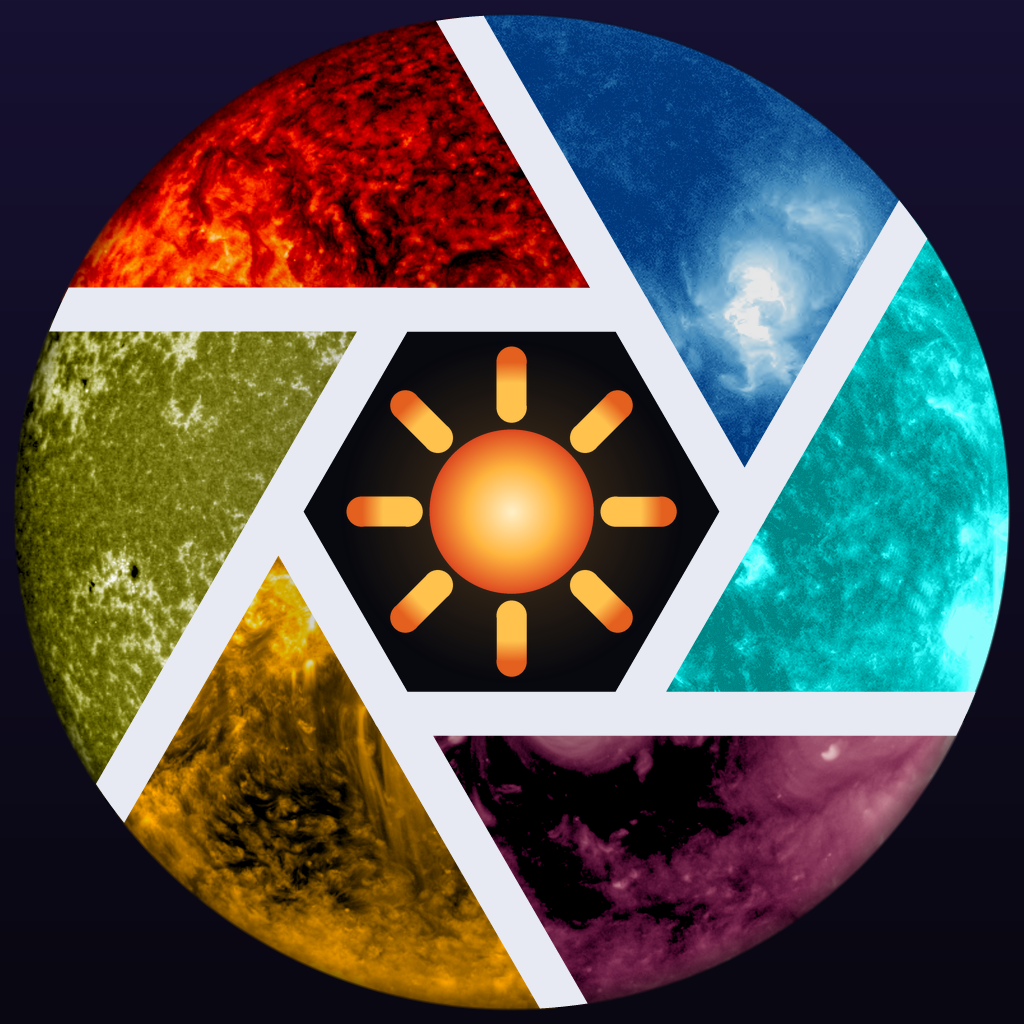
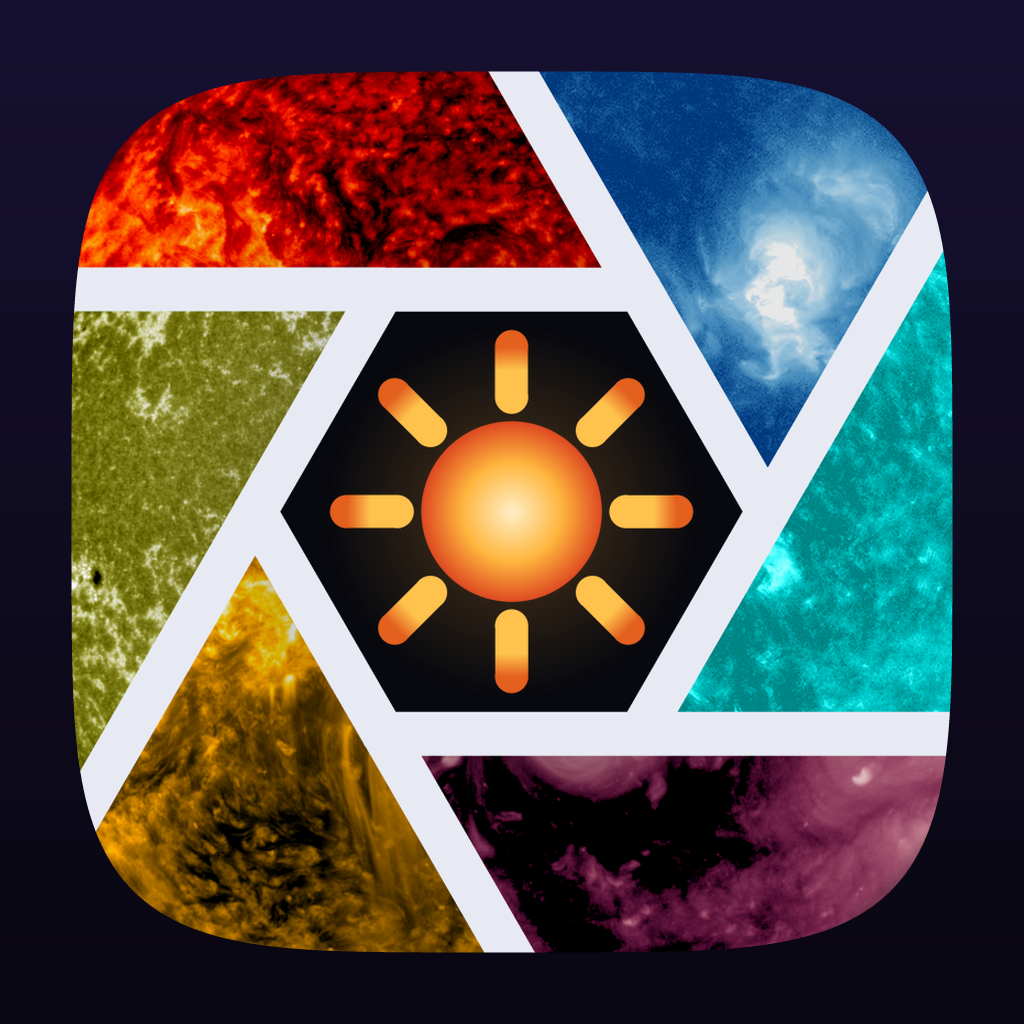
Set the iris in an inset squircle window on the family ground
Gilly picked row 1 of the family photo on 2026-10-28: the drawn Sun in the
hexagon, the iris in a squircle window inset on the violet-black ground.
make_iris_art.py now draws the iris as before (iris()), enlarges it 1.10x about
its centre so the orb's radius (547) passes the window's corner (536), and
clips it to a squircle 0.86 of the canvas wide (n 4.6) on the ground. LINE is
44/1.10 so the dividers end 44 px wide. The output matches the approved
preview exactly (max pixel difference 0, computed against
heliad/icon/v11/studio_current.png).

make_app_icon.py: the .icns body cropped the middle 824 px of the art, which
would cut the window band off. It now shrinks the whole art into the body,
as Heliogram's .icns does. The asset catalog now gets the full art as an
opaque square; before, it got the masked art's pixels, black outside the
824 px body.

The .icns, .ico, asset catalog and PNGs are not rebuilt here (iconutil is
Mac only). UNCHECKED: how macOS 26 places its mask on the catalog's
full-bleed square (whole art or middle 824 px); to be checked on the Mac
from NSWorkspace's rendered icon. UNCHECKED: ant check-all (no ant here);
guards.py diff: 0 failed.

Claude-Session: https://claude.ai/code/session_01BAZto7GS2MUx5a6beTTSaX

diff --git a/release/make_iris_art.py b/release/make_iris_art.py
@@ -14,7 +14,10 @@ the family version (2026-10-23, Gilly's pick beside Peek, Heliad and Heliogram):
   * the ground outside the orb is Heliogram's violet-black, and the hexagon holds Heliogram's drawn
     Sun (2026-10-26), so the icon reads at 16 px and matches the family's sun-in-a-white-outline;
   * the dividers are Heliogram's chrome white (#E7EAF3), 44 px at 1024 (the stroke of the Heliogram
-    and HelioFITS outlines; 22 px until 2026-10-26), with round joints.
+    and HelioFITS outlines; 22 px until 2026-10-26), with round joints;
+  * the iris sits in an inset squircle window (2026-10-28, Gilly's pick of four in a family photo):
+    the whole iris is enlarged by ZOOM about its centre, so the orb's edge falls outside the
+    window's corners, and the violet-black ground shows as a band around the window.
 
 The red, olive, gold and purple leaves are the original art, untouched.
 
@@ -42,7 +45,9 @@ ORIGINAL = os.path.join(HERE, "iris_plain_1024.png")
 OUT = os.path.join(HERE, "iris_leaf_plain_1024.png")
 
 CHROME = (0xE7, 0xEA, 0xF3)
-LINE = 44                                 # divider width at 1024: Heliogram's and HelioFITS's outline stroke
+ZOOM = 1.10                               # the iris enlarged about its centre: the orb's radius becomes 547,
+WINDOW = 0.86                             # past the corner of this squircle window (536 px out)
+LINE = 44 / ZOOM                          # divider width, 44 px after ZOOM: Heliogram's and HelioFITS's outline stroke
 C, APO = 511.5, 202                       # hexagon centre and apothem, to the middle of the old dividers
 R = APO / math.cos(math.radians(30))
 V = {"L": (C - R, C), "R": (C + R, C),
@@ -111,6 +116,35 @@ def leaves():
 
 
 def art():
+    """The iris, enlarged by ZOOM about its centre, in a squircle window on the family ground."""
+    big = iris().resize((round(1024 * ZOOM),) * 2, Image.LANCZOS)
+    o = (big.width - 1024) // 2
+    a = np.array(big.crop((o, o, o + 1024, o + 1024))).astype(np.float32)
+    window = squircle(WINDOW)[..., None]
+    out = a * window + ground() * (1 - window)
+    return Image.fromarray(np.clip(out, 0, 255).astype(np.uint8))
+
+
+def ground():
+    """Heliogram's ground, #171132 -> #090711, top to bottom."""
+    t = np.linspace(0, 1, 1024)[:, None, None]
+    return np.broadcast_to(np.array(GROUND_TOP) * (1 - t) + np.array(GROUND_BOT) * t, (1024, 1024, 3))
+
+
+def squircle(frac, n=4.6, ss=4):
+    """Area coverage of a squircle frac of the canvas wide, with macOS's exponent."""
+    c, h = 512 * ss, 512 * ss * frac
+    pts = []
+    for i in range(4800):
+        t = 2 * math.pi * i / 4800
+        ct, st = math.cos(t), math.sin(t)
+        pts.append((c + h * math.copysign(abs(ct) ** (2 / n), ct), c + h * math.copysign(abs(st) ** (2 / n), st)))
+    m = Image.new("L", (1024 * ss, 1024 * ss), 0)
+    ImageDraw.Draw(m).polygon(pts, fill=255)
+    return np.array(m.resize((1024, 1024), Image.BOX)).astype(np.float32) / 255
+
+
+def iris():
     orig = np.array(Image.open(ORIGINAL).convert("RGB")).astype(np.float32)
     blue, cyan, A, B = leaves()
     yy, xx = np.mgrid[0:1024, 0:1024]
@@ -122,11 +156,9 @@ def art():
         table = colour_table(frame(ch, *fit_at)[m], orig[m])
         new = look_up(table, frame(ch, *RENDER)) * inside
         out = out * (1 - region[..., None]) + new * region[..., None]
-    # the family ground (Heliogram's #171132 -> #090711, top to bottom) outside the orb
-    t = np.linspace(0, 1, 1024)[:, None, None]
-    ground = np.array(GROUND_TOP) * (1 - t) + np.array(GROUND_BOT) * t
+    # the family ground outside the orb
     outside = np.clip((np.hypot(xx - C, yy - C) - (ORB - 1)) / 3, 0, 1)[..., None]
-    out = out * (1 - outside) + ground * outside
+    out = out * (1 - outside) + ground() * outside
     img = Image.fromarray(np.clip(out, 0, 255).astype(np.uint8))
     return sun(dividers(img, A, B))
 
@@ -181,7 +213,7 @@ def dividers(img, A, B, ss=4):
     big = Image.new("L", (1024 * ss, 1024 * ss), 0)
     d = ImageDraw.Draw(big)
     for p, q in segs:
-        d.line([(p[0] * ss, p[1] * ss), (q[0] * ss, q[1] * ss)], fill=255, width=LINE * ss)
+        d.line([(p[0] * ss, p[1] * ss), (q[0] * ss, q[1] * ss)], fill=255, width=round(LINE * ss))
     for v in V.values():                                  # round joints
         d.ellipse([(v[0] - LINE / 2) * ss, (v[1] - LINE / 2) * ss, (v[0] + LINE / 2) * ss, (v[1] + LINE / 2) * ss], fill=255)
     clip = Image.new("L", big.size, 0)

diff --git a/release/make_app_icon.py b/release/make_app_icon.py
@@ -45,8 +45,15 @@ def squircle(size=S, frac=BODY, n=N, ss=4):
 
 
 def masked(img):
-    """The squircle the .icns needs; the asset catalog gets unmasked() instead."""
-    img = img.convert("RGBA")
+    """The squircle the .icns needs; the asset catalog gets unmasked() instead.
+
+    The whole art is shrunk into the 824 px body, as Heliogram's .icns is and as macOS 26 draws the
+    catalog's full-bleed square, so both show the squircle window and its ground band (2026-10-28).
+    Until then the body cropped the art's middle 824 px."""
+    body = round(S * BODY)
+    small = img.convert("RGB").resize((body, body), Image.LANCZOS)
+    img = Image.new("RGBA", (S, S), (0, 0, 0, 0))
+    img.paste(small, ((S - body) // 2,) * 2)
     img.putalpha(squircle())
     px = np.array(img)
     px[px[..., 3] == 0, :3] = 0    # no colour under full transparency
@@ -110,9 +117,10 @@ def small_first(px, img=None):
 
 
 def unmasked(img):
-    """The art with the squircle taken off, filling its whole square canvas.
+    """The art as an opaque square filling its whole canvas, never the masked art (since
+    2026-10-28 the full art itself: before, the masked art's opaque pixels, black outside the body).
 
-    The catalog gets this rather than the masked art, and macOS applies its own shape. Handing it
+    The catalog gets this, and macOS applies its own shape. Handing it
     art that is already a squircle makes it inset that inside its own, which is the grey plate at
     1024 (the size Finder asks for at its largest icon view on a 2x display). The .icns keeps the
     masked art: nothing shapes that one."""
@@ -136,7 +144,7 @@ def main():
     images = []
     for size, scale, px in APPICONSET:
         fn = f"icon_{size}_{scale}.png"
-        small_first(px, unmasked(BY_SIZE[px])).save(os.path.join(aset, fn))
+        small_first(px, unmasked(PLAIN)).save(os.path.join(aset, fn))
         images.append({"idiom": "mac", "size": size, "scale": scale, "filename": fn})
     with open(os.path.join(aset, "Contents.json"), "w") as f:
         json.dump({"images": images, "info": {"version": 1, "author": "make_app_icon.py"}}, f, indent=2)

diff --git a/changelog.md b/changelog.md
@@ -111,6 +111,7 @@
 ### App icon
 - The iris icon joins the family look of HelioFITS, Heliad and Heliogram: its dividers are white instead of black, and the blue AIA 335 leaf is a full leaf running from the hexagon's right corner to the Sun's edge, so the red 304 leaf no longer spans the whole top. The new blue leaf and the cyan AIA 131 leaf are drawn from the real AIA frames of the same 2024-05-14 X8.7 flare the other leaves came from, by release/make_iris_art.py
 - The iris icon's white dividers are twice as wide, 44 px at 1024, the same stroke as the HelioFITS and Heliogram outlines. The ground around the orb is the family's violet-black, and the hexagon holds Heliogram's drawn Sun in place of the HFS letters, so one artwork reads at every size from 16 px up
+- The iris sits in a squircle window inset on that ground, enlarged so the orb's edge falls outside the window's corners, and the .icns now shows the whole art shrunk into the icon body, as the asset catalog does, instead of cropping its middle
 
 ### Smaller fixes
 - The Timeline Layers section no longer shows as empty stripes. When the sidebar gave it a pixel less height than it asked for, its New Layer row collapsed to nothing and its list was drawn above its own top, so only the row shading showed (seen in the Sarah Gibson session as timeline layers rendering nothing)
